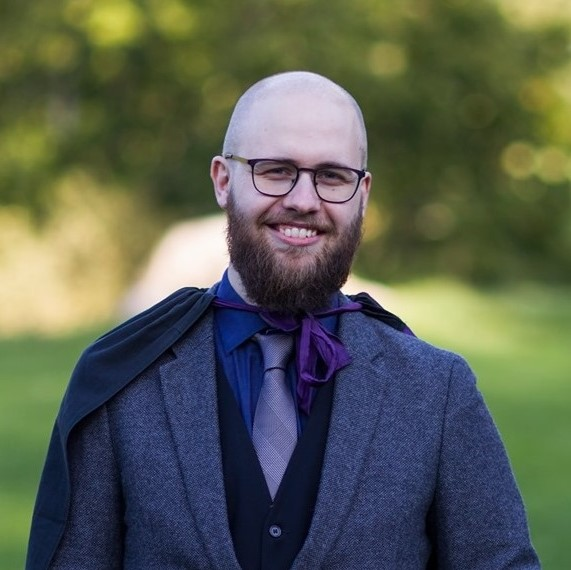
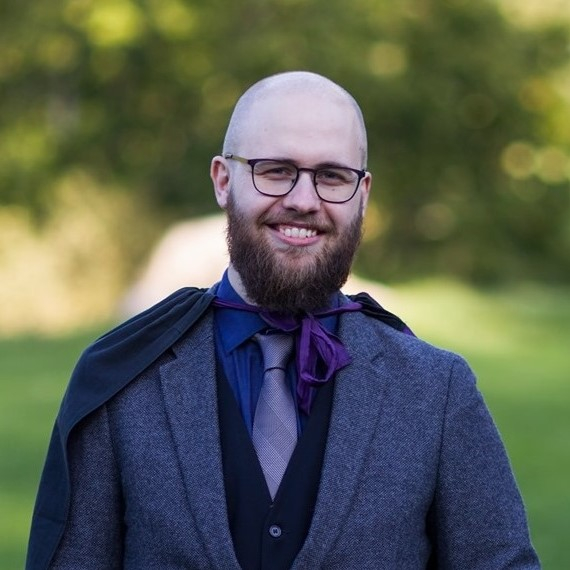
Tilføj billede af Johan

diff --git a/index.php b/index.php
@@ -18,7 +18,7 @@
 
         <div class="card-grid">
             <a class="card">
-                <img src="noone.png" alt="">
+                <img src="johan-broedsgaard/IMG_7521.jpeg" alt="">
                 <h4>Johan Brødsgaard</h4>
             </a>
 
